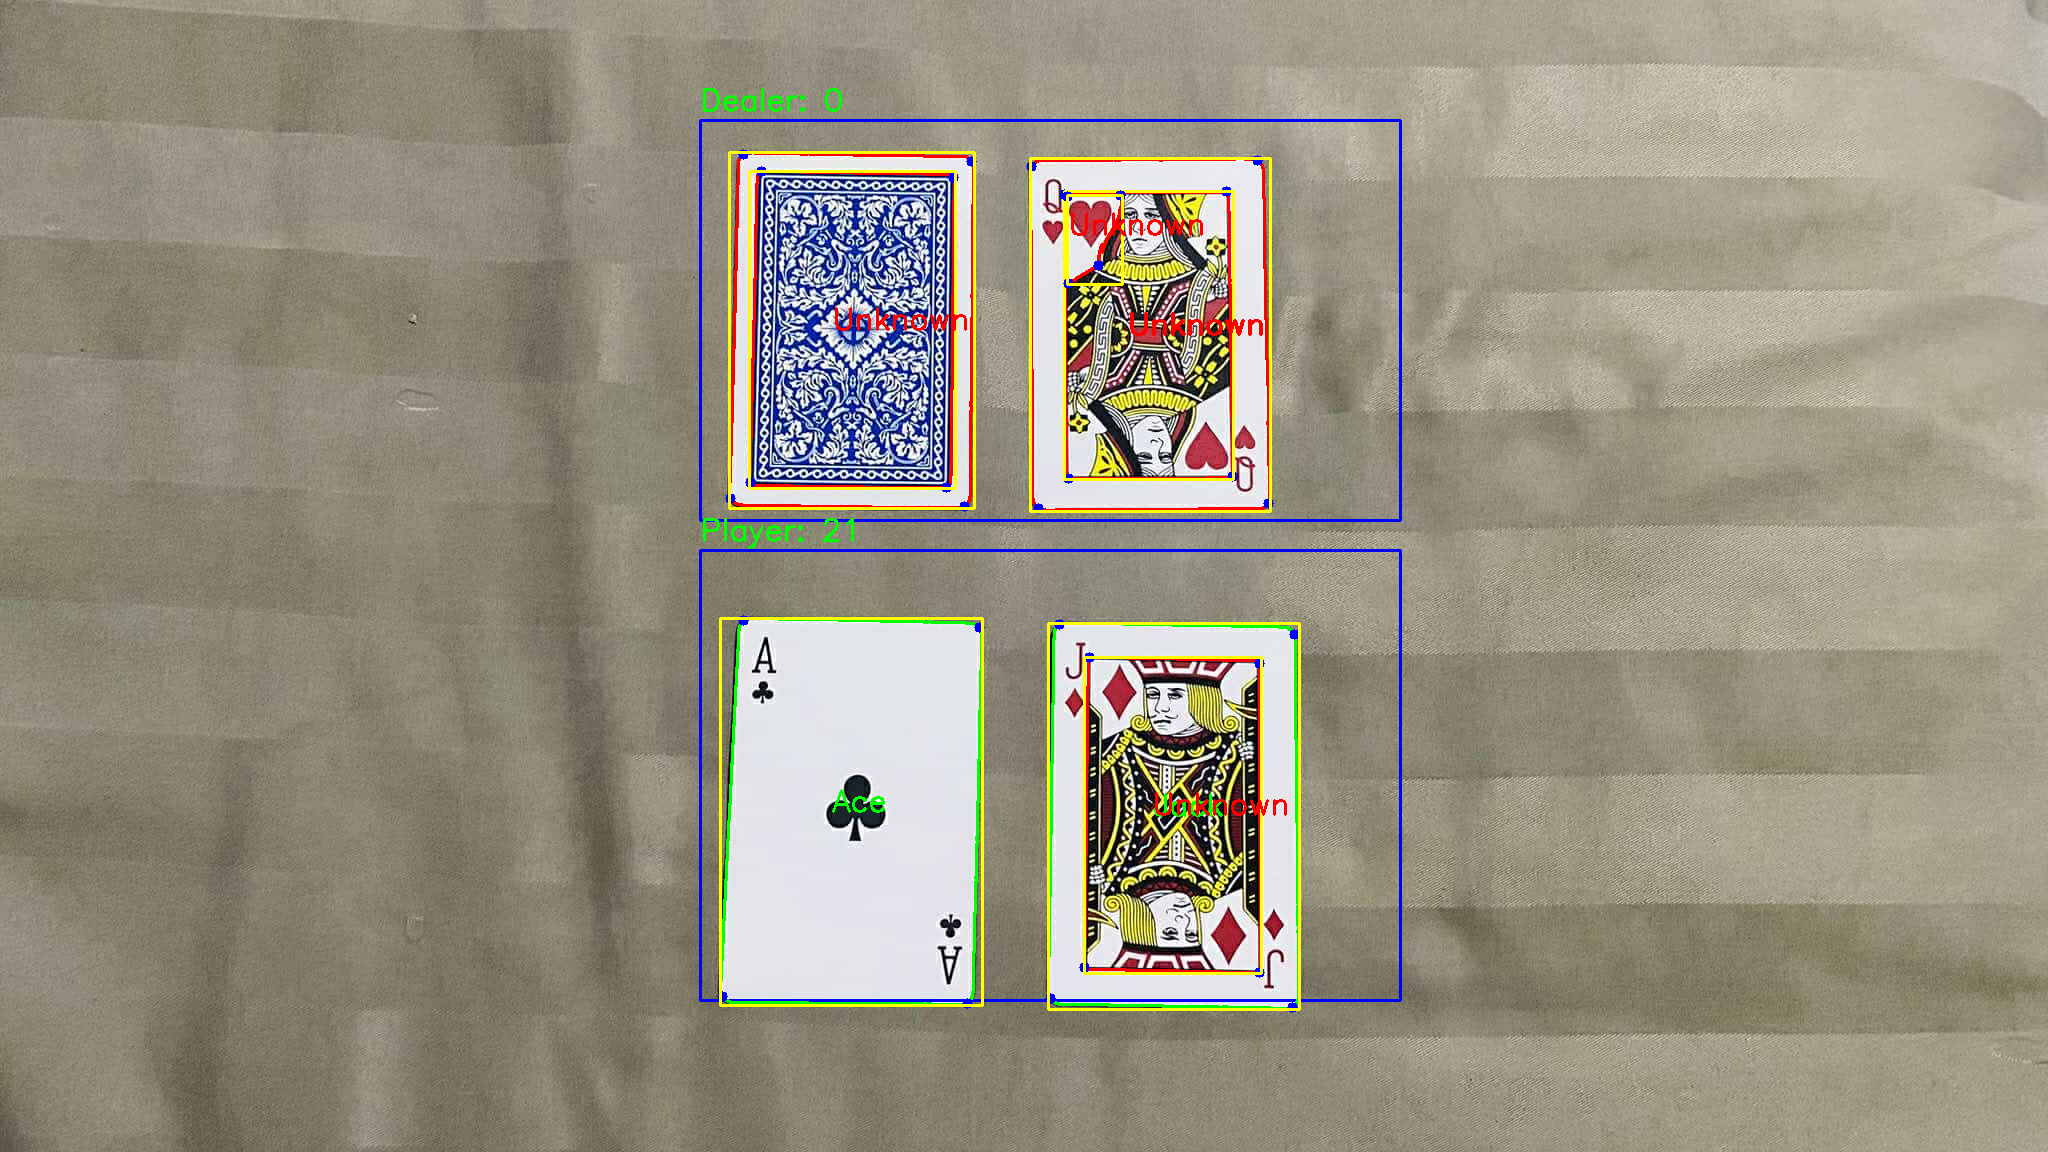
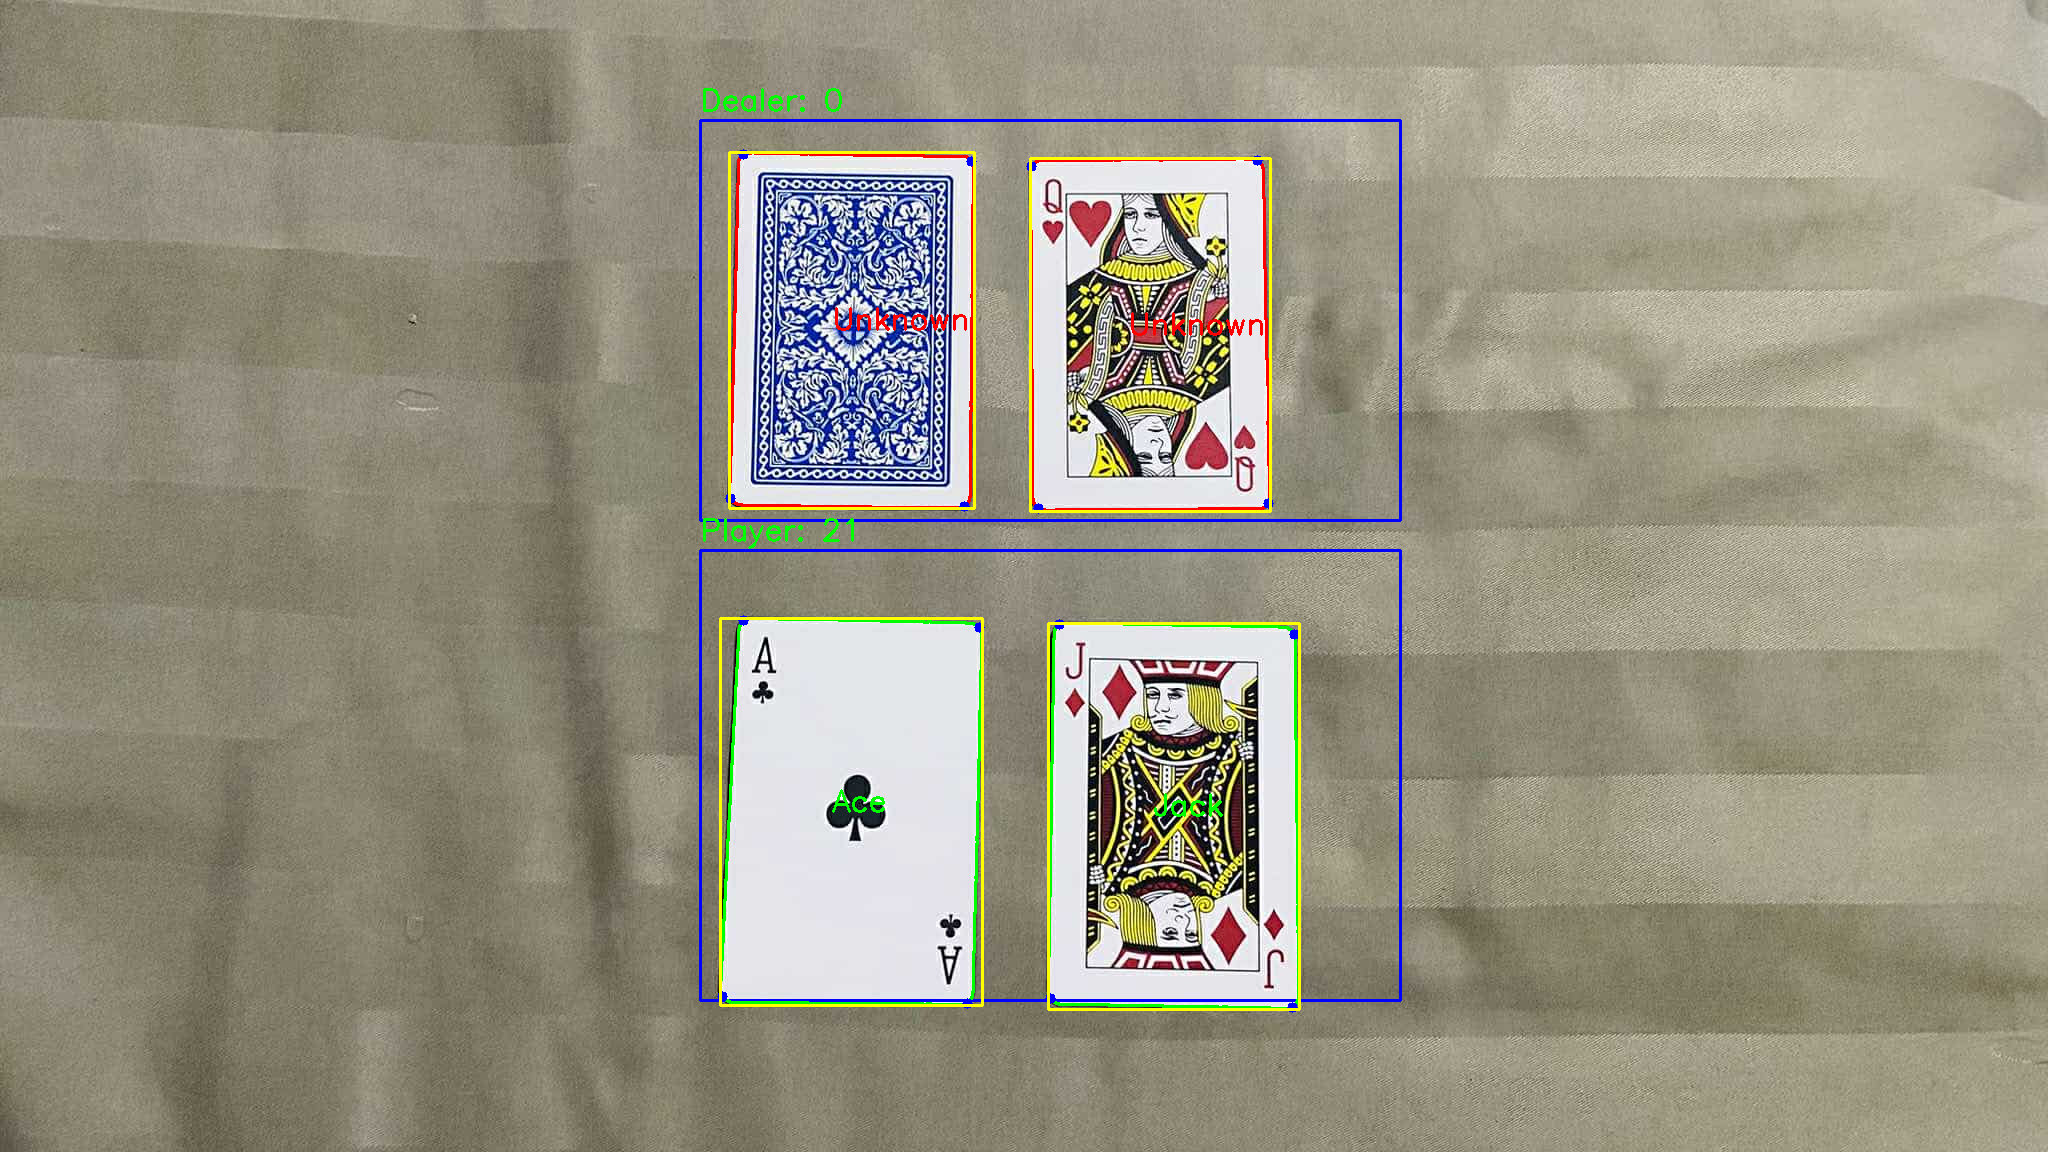
...

diff --git a/binary.py b/binary.py
@@ -1,0 +1,38 @@
+import cv2
+import os
+
+# โฟลเดอร์ที่เก็บภาพต้นฉบับ
+input_folder = "rank"
+# โฟลเดอร์ที่ใช้เก็บภาพผลลัพธ์
+output_folder = "template"
+
+# ตรวจสอบว่าโฟลเดอร์ผลลัพธ์มีอยู่แล้วหรือไม่ ถ้าไม่มีจะสร้างใหม่
+if not os.path.exists(output_folder):
+    os.makedirs(output_folder)
+
+# ตั้งค่าความเข้มแสง (threshold) และค่าสีสูงสุด
+threshold_value = 128
+max_value = 255
+
+# อ่านไฟล์ภาพทั้งหมดในโฟลเดอร์ต้นฉบับ
+for file_name in os.listdir(input_folder):
+    # ตรวจสอบว่าเป็นไฟล์ภาพหรือไม่ (รองรับไฟล์ .jpg, .png, .jpeg)
+    if file_name.lower().endswith(('.jpg', '.jpeg', '.png')):
+        # สร้าง path ของภาพต้นฉบับและภาพผลลัพธ์
+        input_path = os.path.join(input_folder, file_name)
+        output_path = os.path.join(output_folder, f"{file_name}")
+
+        # โหลดภาพในโหมด Grayscale
+        image = cv2.imread(input_path, cv2.IMREAD_GRAYSCALE)
+
+        if image is not None:
+            # แปลงภาพเป็น Binary
+            _, binary_image = cv2.threshold(image, threshold_value, max_value, cv2.THRESH_BINARY)
+
+            # บันทึกภาพผลลัพธ์
+            cv2.imwrite(output_path, binary_image)
+            print(f"แปลงสำเร็จ: {file_name} -> {output_path}")
+        else:
+            print(f"ไม่สามารถโหลดภาพได้: {file_name}")
+
+print("การแปลงภาพทั้งหมดเสร็จสิ้น!")

diff --git a/resize.py b/resize.py
@@ -1,0 +1,37 @@
+import cv2
+import os
+
+# ตั้งค่าโฟลเดอร์
+input_folder = 'btemplate'  # โฟลเดอร์ที่มีรูปภาพ
+output_folder = 'template'  # โฟลเดอร์สำหรับบันทึกภาพใหม่
+
+# สร้างโฟลเดอร์ output หากยังไม่มี
+os.makedirs(output_folder, exist_ok=True)
+
+# ขนาดที่ต้องการ
+target_width = 70
+target_height = 125
+
+# วนลูปไฟล์ในโฟลเดอร์
+for filename in os.listdir(input_folder):
+    input_path = os.path.join(input_folder, filename)
+    
+    # ตรวจสอบว่าไฟล์เป็นรูปภาพหรือไม่
+    if filename.lower().endswith(('.png', '.jpg', '.jpeg', '.bmp', '.tiff')):
+        # อ่านรูปภาพ
+        img = cv2.imread(input_path)
+
+        if img is not None:
+            # ปรับขนาดรูป
+            resized_img = cv2.resize(img, (target_width, target_height))
+
+            # บันทึกรูปภาพในโฟลเดอร์ output
+            output_path = os.path.join(output_folder, filename)
+            cv2.imwrite(output_path, resized_img)
+            print(f"Resized and saved: {output_path}")
+        else:
+            print(f"Failed to load image: {input_path}")
+    else:
+        print(f"Skipped non-image file: {filename}")
+
+print("Finished resizing all images.")

diff --git a/my_cards.py b/my_cards.py
@@ -224,7 +224,7 @@ def process_folder(input_folder, output_folder, rank_path, last_cards=[]):
         print(f"Processed: {image_filename}")
 
 if __name__ == "__main__":
-    input_folder = 'benchmark_images'
-    output_folder = 'benchmark_images/detected_cards'
+    input_folder = 'test_img'
+    output_folder = 'test_img/detected_cards'
     rank_path = 'rank_images'  # Directory containing rank images (Ace.png, Two.png, etc.)
     process_folder(input_folder, output_folder, rank_path)

diff --git a/my_cards2.py b/my_cards2.py
@@ -11,7 +11,7 @@ WRITE_IMAGES = False
 
 # Card dimensions
 CARD_MAX_AREA = 100000
-CARD_MIN_AREA = 2000
+CARD_MIN_AREA = 70000
 
 CARD_MAX_PERIM = 1000
 CARD_MIN_PERIM = 200
